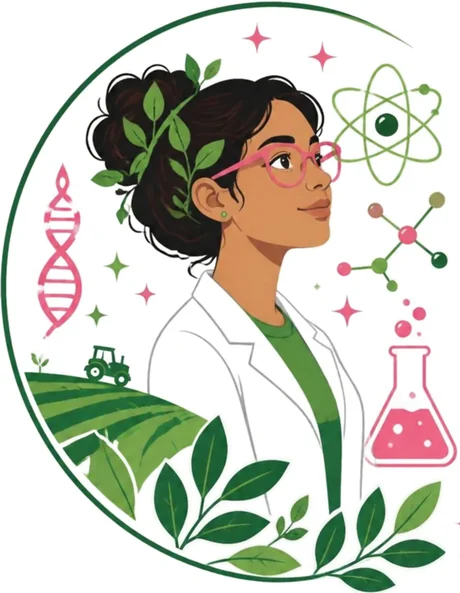
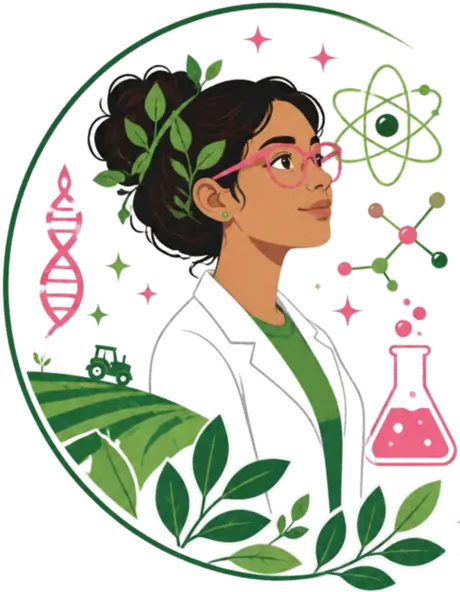
Vira o site para a estética rosa e verde
O rosa do tema "Ciência Delas" existia só na logo. Agora é o papel do site
inteiro, com o verde institucional segurando o texto e as faixas escuras:
papel rosa, tinta verde.

A virada é no sistema de tokens, e não seção por seção. Os neutros eram
todos puxados para a matiz do verde (146) e passaram para a do rosa (352):
--papel, --papel-2, --papel-3, --linha e --linha-forte. Os cromas sobem um
pouco em relação aos antigos porque o olho perde rosa fraco mais depressa
que verde fraco no mesmo croma. A tinta fica onde estava — se ela virasse
junto, o verde sumiria do site e sobraria só rosa.

O herói da home passou a claro, com a imagem à esquerda e o texto à
direita, e os cabeçalhos de /trabalhos/ e /cronograma/ reusam o mesmo
modificador. As faixas verde-escuras e o rodapé ficam como estavam: são a
metade verde da combinação.

Inverter o herói arrastou tudo que tinha sido escolhido para claro-sobre-
escuro. Três imagens trocaram para a versão colorida (o lockup, a marca do
IFRO e a marca-d'água, esta achatada em preto porque o círculo vermelho
virava mancha sobre papel claro). O botão secundário era botao--fantasma-
claro, feito para fundo escuro, e virou botao--linha. A tarja de prazo de
/trabalhos/ tinha fio branco translúcido e número branco, e agora é
pastilha branca com número verde.

O selo foi reexportado sem fundo, o que dispensou o painel branco em volta.
Vale saber por quê: as áreas claras do desenho são buracos, não branco
[…]

diff --git a/static/css/style.css b/static/css/style.css
@@ -18,7 +18,7 @@
   --verde-600:    oklch(55.0% 0.135 147);
   --verde-700:    oklch(46.0% 0.110 147);   /* verde legível em corpo pequeno */
   --verde-800:    oklch(38.0% 0.089 148);
-  --verde-900:    oklch(30.5% 0.070 149);   /* chão do topo e do herói */
+  --verde-900:    oklch(30.05% 0.070 149);   /* chão do topo e do herói */
   --verde-950:    oklch(24.0% 0.055 149);   /* chão do rodapé */
   --verde-100:    oklch(95.0% 0.028 146);
   --verde-200:    oklch(89.0% 0.050 146);
@@ -32,16 +32,22 @@
      croma parecido — e por isso funciona como assinatura do tema sem brigar
      com a cor da casa. Uso restrito: a assinatura "Ciência Delas". */
   --rosa: oklch(69.3% 0.169 352);
+  /* o mesmo rosa diluído até virar papel: fundo do herói da home */
+  --rosa-50: oklch(95.5% 0.030 352);   /* #FFE8F2 */
 
-  /* neutros puxados para a matiz da marca: cromas mínimos, mas perceptíveis */
-  --papel:        oklch(98.6% 0.004 146);
-  --papel-2:      oklch(96.4% 0.007 146);
-  --papel-3:      oklch(93.6% 0.010 146);
+  /* Neutros puxados para a matiz do rosa da marca (352), e não mais para a do
+     verde (146): é o que dá ao site inteiro o mesmo ar do herói. Os cromas
+     sobem um pouco em relação aos antigos porque o olho perde rosa fraco mais
+     depressa que verde fraco no mesmo croma. A tinta continua na matiz verde:
+     papel rosa, texto verde — é esse o par. */
+  --papel:        oklch(98.6% 0.007 352);
+  --papel-2:      oklch(96.4% 0.018 352);
+  --papel-3:      oklch(93.6% 0.028 352);
   --tinta:        oklch(22.0% 0.014 146);
   --tinta-2:      oklch(44.0% 0.016 146);   /* texto secundário, ~7:1 no papel */
   --tinta-3:      oklch(50.0% 0.016 146);   /* metadados 13px, 5,7:1 no papel */
-  --linha:        oklch(88.0% 0.012 146);
-  --linha-forte:  oklch(78.0% 0.016 146);
+  --linha:        oklch(88.0% 0.024 352);
+  --linha-forte:  oklch(78.0% 0.034 352);
 
   /* sobre o verde profundo: nunca cinza em cima de cor */
   --sobre-verde:      oklch(97.0% 0.012 146);
@@ -410,15 +416,15 @@ a { color: inherit; }
 }
 @media (min-width: 62.0625rem) {
   .heroi__topo {
-    grid-template-columns: minmax(0, 1fr) min(19rem, 30%);
+    grid-template-columns: min(19rem, 30%) minmax(0, 1fr);
     align-items: center;
   }
-  .heroi__grade  { grid-area: 1 / 1; }
+  .heroi__grade  { grid-area: 1 / 2; }
   /* alinhada pelo topo, e não centrada: o painel começa na altura do título,
      e não no meio de um bloco de texto que é bem mais alto que ele */
   .heroi__marca  {
-    grid-area: 1 / 2;
-    justify-self: end;
+    grid-area: 1 / 1;
+    justify-self: start;
     align-self: start;
     margin-top: var(--s-2xl);
   }
@@ -540,6 +546,62 @@ a { color: inherit; }
   color: #fff;
   font-variant-numeric: tabular-nums;
 }
+
+/* ------------------------------------------------- herói claro (só a home)
+   O .heroi é compartilhado com os cabeçalhos curtos de /trabalhos/ e
+   /cronograma/, que continuam escuros. Por isso isto é um modificador, e não
+   uma troca na base: inverte o herói da home para fundo branco e vira, uma a
+   uma, todas as cores que foram escolhidas para claro-sobre-escuro.
+
+   Quem mexer aqui precisa saber que três imagens acompanham a inversão, e
+   elas estão no HTML, não aqui: o lockup, a marca do IFRO do rodapé do herói
+   e a marca-d'água passam da versão branca para a colorida. */
+.heroi--claro {
+  background: var(--rosa-50);
+  color: var(--tinta-2);
+  /* o ar extra existia porque claro sobre escuro pesa menos; em tinta sobre
+     branco a entrelinha volta ao normal do site */
+  line-height: 1.6;
+}
+.heroi--claro::before {
+  background-image: url("../img/if-mark.svg");
+  /* a marca colorida deixava uma mancha rosa atrás do texto: o círculo
+     vermelho do IF. Achatada em preto ela volta a ser o que era no escuro —
+     uma textura neutra, sem cor própria. */
+  filter: grayscale(1) brightness(0);
+  opacity: 0.06;
+}
+
+.heroi--claro h1,
+.heroi--claro .contagem b { color: var(--tinta); }
+.heroi--claro .lead       { color: var(--tinta-2); }
+
+.heroi--claro .heroi__data {
+  border-color: var(--linha);
+  /* branco, e não --papel-2: o papel agora é rosa como o fundo do herói, e a
+     tarja sumiria dentro dele. O branco é o que a destaca. */
+  background: #fff;
+  color: var(--tinta-2);
+}
+.heroi--claro .heroi__data .modulo { color: var(--verde); }
+
+.heroi--claro .heroi__rodape { border-top-color: var(--linha); }
+.heroi--claro .contagem      { color: var(--tinta-3); }
+
+/* Sem painel: o selo foi reexportado com o fundo recortado, então a arte cai
+   direto sobre o rosa.
+
+   O que isso custa: as áreas claras do desenho — o jaleco, o miolo do anel —
+   são buracos na ilustração, não branco pintado. Quem aparece ali é o fundo.
+   Em rosa clarinho isso passa por branco; sobre fundo escuro o jaleco sumiria.
+   Ou seja, este selo só serve em fundo claro. Se o herói voltar a ser verde,
+   é preciso voltar ao painel branco ou reexportar o selo com fundo. */
+.heroi--claro .heroi__marca {
+  padding: 0;
+  background: none;
+  box-shadow: none;
+}
+
 
 /* -------------------------------------------- 7. submissão de trabalhos */
 
@@ -1249,6 +1311,20 @@ a { color: inherit; }
   color: #fff;
   max-width: none;
 }
+/* Os dois seletores acima e abaixo têm a mesma especificidade, e este vem
+   depois só por estar mais adiante no arquivo. Como isso é frágil de ler,
+   o modificador claro cobra a sua parte com especificidade maior: as duas
+   classes no mesmo elemento. */
+.heroi--claro.heroi--curto h1 { color: var(--tinta); }
+
+/* a tarja de estado do cabeçalho de /trabalhos/ nasceu para o verde escuro:
+   fio branco translúcido e número branco. Em papel rosa, nada disso aparece. */
+.heroi--claro .estado {
+  border-color: var(--linha);
+  background: #fff;
+}
+.heroi--claro .estado__rotulo { color: var(--tinta-3); }
+.heroi--claro .estado b       { color: var(--verde-700); }
 /* depois de um cabeçalho curto, o respiro da seção de conteúdo é menor */
 .heroi--curto + .secao { padding-top: clamp(2rem, 4vw, 3rem); }
 

diff --git a/templates/index.html b/templates/index.html
@@ -4,7 +4,7 @@
 {% block conteudo %}
 
   <!-- ============================================================ herói -->
-  <section class="heroi">
+  <section class="heroi heroi--claro">
     <!--
       Duas colunas no desktop: o texto de um lado, a marca do evento do outro.
       A marca vem primeiro no HTML porque no celular a grade vira uma coluna só
@@ -42,7 +42,7 @@
           desenhado dentro do lockup.
         {% endcomment %}
         <h1 class="heroi__lockup" style="--i:2">
-          <img src="{% static 'img/snct-lockup-branca.svg' %}" width="472" height="240"
+          <img src="{% static 'img/snct-lockup.svg' %}" width="472" height="240"
                alt="23ª Semana Nacional de Ciência e Tecnologia — tema Ciência Delas"
                fetchpriority="high">
         </h1>
@@ -56,14 +56,14 @@
           <a class="botao botao--acao" href="#programacao">
             Ver a programação <span class="seta" aria-hidden="true">→</span>
           </a>
-          <a class="botao botao--fantasma-claro" href="#eventos">Eventos e inscrições</a>
+          <a class="botao botao--linha" href="#eventos">Eventos e inscrições</a>
         </p>
 
       </div>
     </div>
 
     <div class="shell heroi__rodape">
-      <img src="{% static 'img/ifro-horizontal-branca.svg' %}" width="275" height="60"
+      <img src="{% static 'img/ifro-horizontal.svg' %}" width="275" height="60"
            alt="Instituto Federal de Rondônia — Campus Ariquemes">
 
       <!-- preenchida pelo JS a partir de data-inicio/data-fim; sem JS, não aparece -->

diff --git a/templates/trabalhos.html b/templates/trabalhos.html
@@ -8,9 +8,9 @@
 
 {% block conteudo %}
 
-  <section class="heroi heroi--curto">
+  <section class="heroi heroi--curto heroi--claro">
     <div class="shell heroi__grade">
-      <p class="rotulo rotulo--claro" style="--i:0">23ª SNCT · Campus Ariquemes</p>
+      <p class="rotulo" style="--i:0">23ª SNCT · Campus Ariquemes</p>
       <h1 style="--i:1">Submissão de trabalhos</h1>
       <p class="lead" style="--i:2">
         Estudantes de qualquer curso podem inscrever trabalhos na semana. É um
@@ -158,7 +158,7 @@
           <p class="etapa__n" aria-hidden="true">4</p>
           <h3>Resultado final</h3>
           <p class="etapa__data">
-            <time datetime="2026-10-26">26/10</time>
+            <time datetime="2026-10-22">22/10</time>
           </p>
           <p class="etapa__desc">Divulgação dos trabalhos aprovados, na véspera
             da semana.</p>

diff --git a/templates/cronograma.html b/templates/cronograma.html
@@ -7,9 +7,9 @@
 
 {% block conteudo %}
 
-  <section class="heroi heroi--curto">
+  <section class="heroi heroi--curto heroi--claro">
     <div class="shell heroi__grade">
-      <p class="rotulo rotulo--claro" style="--i:0">23ª SNCT · Campus Ariquemes</p>
+      <p class="rotulo" style="--i:0">23ª SNCT · Campus Ariquemes</p>
       <h1 style="--i:1">Cronograma</h1>
       <p class="lead" style="--i:2">
         Todas as atividades da semana, dia por dia, com horário e local. Esta
